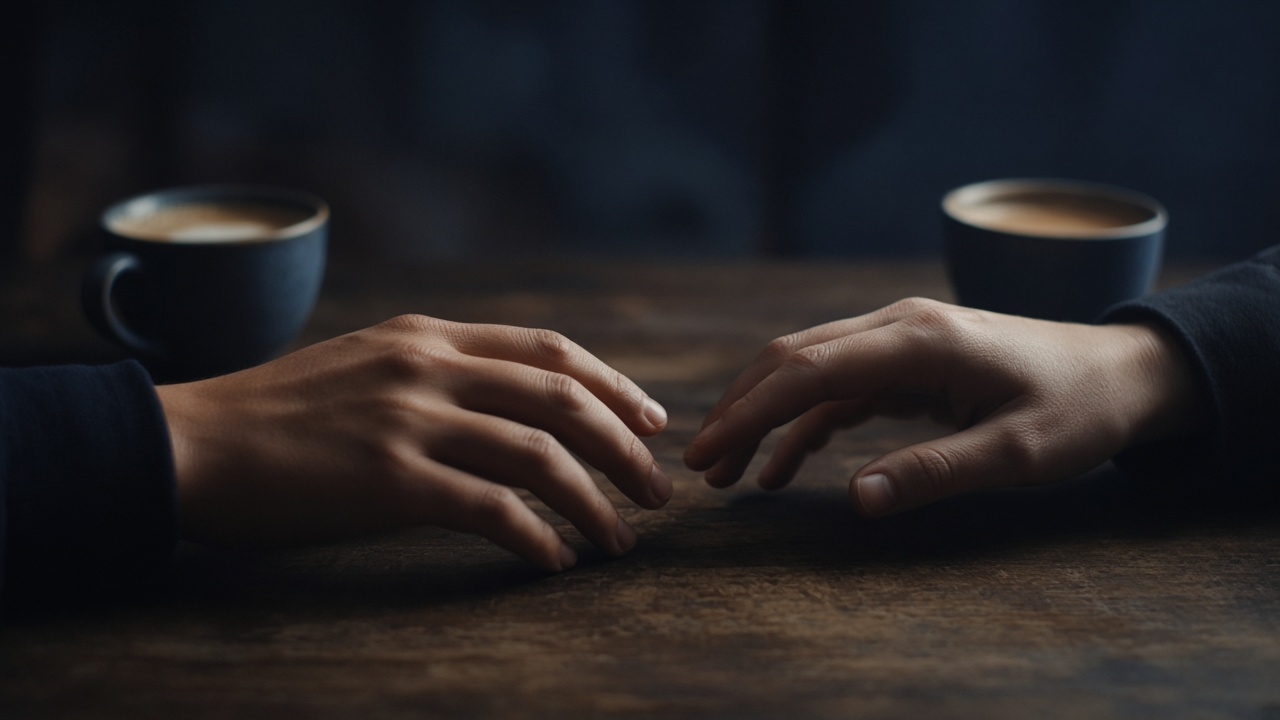
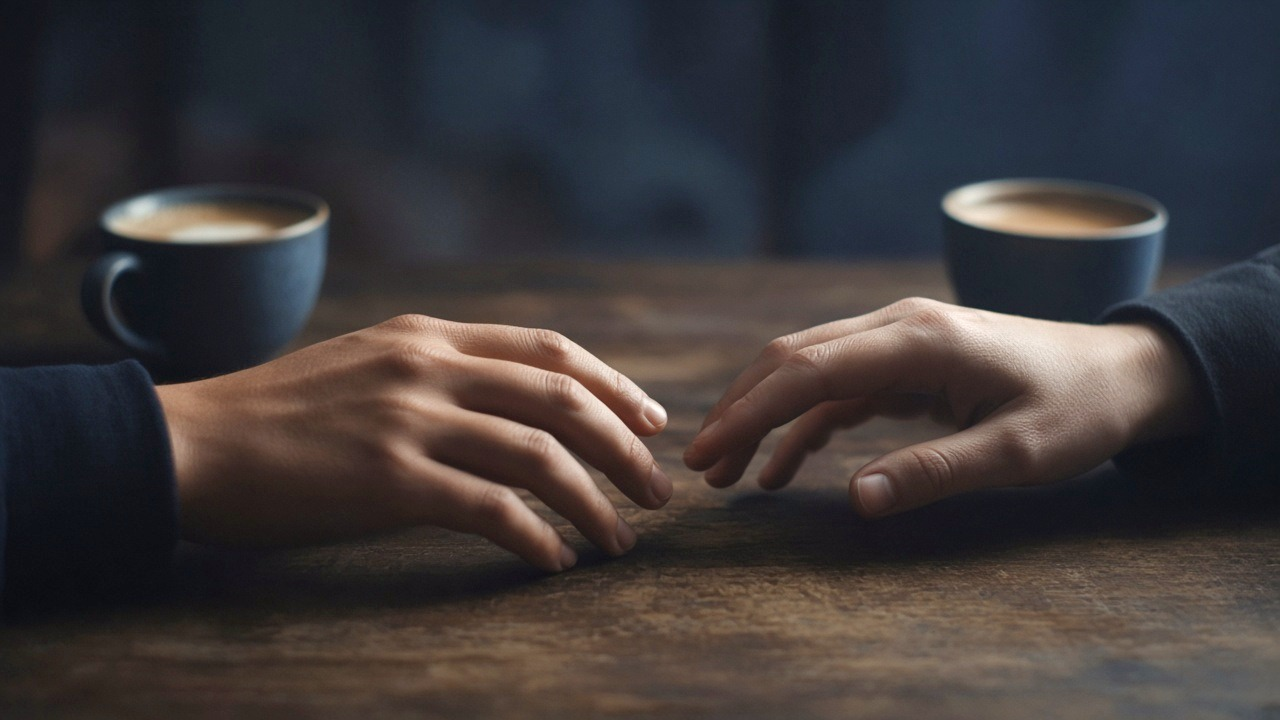
Lift the home-pain photos and brighten the luxury canvas.
The three “what happens at home” stills were crushed to night black. Exposure and a warm wash make the couple, hands, and kitchen readable, and the cards sit on a more luminous cream-gold canvas.

diff --git a/app/globals.css b/app/globals.css
@@ -205,10 +205,20 @@ p, li, .text-body, .text-lead, .faq-a, .faq-q, .quote-card__text,
   inset: 0;
 }
 
+.site-backdrop::after {
+  content: "";
+  position: absolute;
+  inset: 0;
+  pointer-events: none;
+  background:
+    radial-gradient(ellipse 82% 58% at 50% 18%, rgba(255, 248, 230, 0.42), transparent 72%),
+    linear-gradient(180deg, rgba(255, 252, 247, 0.2), rgba(250, 245, 239, 0.08));
+}
+
 .site-ambient__glow {
   position: absolute;
   inset: -12%;
-  background: radial-gradient(circle at 50% 30%, rgba(197, 160, 89, 0.2), transparent 70%);
+  background: radial-gradient(circle at 50% 30%, rgba(197, 160, 89, 0.32), transparent 70%);
   will-change: opacity, transform;
   transform-origin: 50% 30%;
 }
@@ -891,16 +901,35 @@ a.clinic-address {
   box-shadow: 0 20px 25px -5px rgba(130, 21, 43, 0.1);
 }
 
+.pain-card__media {
+  position: relative;
+  overflow: hidden;
+}
+
+.pain-card__media::after {
+  content: "";
+  position: absolute;
+  inset: 0;
+  pointer-events: none;
+  background: linear-gradient(
+    165deg,
+    rgba(255, 244, 220, 0.2) 0%,
+    transparent 46%,
+    rgba(197, 160, 89, 0.1) 100%
+  );
+}
+
 .pain-card__media img {
   display: block;
   width: 100%;
   height: 250px;
   object-fit: cover;
+  filter: brightness(1.1) contrast(1.04) saturate(1.06);
 }
 
 .pain-card__copy {
   padding: 18px 20px 22px;
-  border-top: 4px solid #82152B;
+  border-top: 1px solid rgba(197, 160, 89, 0.28);
 }
 
 .pain-card__copy h3 {
@@ -1708,6 +1737,13 @@ a.clinic-address {
 
 .media-zoom img {
   transition: transform 1.4s var(--ease-out);
+}
+
+.clinic-card img,
+.quote-card img,
+.about-portrait__frame img,
+.path-card__media img {
+  filter: brightness(1.08) contrast(1.03) saturate(1.04);
 }
 
 .media-zoom:hover img {
@@ -4693,18 +4729,19 @@ footer {
 .faq-item--neo,
 .treat-pin__head,
 .treat-pin__copy,
-.content-shield {
+.content-shield,
+.pain-card {
   position: relative;
   isolation: isolate;
-  background: rgba(255, 255, 255, 0.95) !important;
+  background: rgba(255, 255, 255, 0.97) !important;
   backdrop-filter: blur(12px);
   -webkit-backdrop-filter: blur(12px);
   border-top: 4px solid #c5a059 !important;
   border-bottom: 1px solid rgba(110, 88, 70, 0.16) !important;
   border-radius: 1rem;
   box-shadow:
-    0 25px 50px -12px rgba(110, 88, 70, 0.14),
-    0 0 0 1px rgba(197, 160, 89, 0.1) !important;
+    0 25px 50px -12px rgba(197, 160, 89, 0.18),
+    0 0 0 1px rgba(197, 160, 89, 0.14) !important;
 }
 
 .content-shield::before,
@@ -4718,7 +4755,7 @@ footer {
   height: 7rem;
   z-index: -1;
   pointer-events: none;
-  background: radial-gradient(circle at 50% 30%, rgba(197, 160, 89, 0.2), transparent 70%);
+  background: radial-gradient(circle at 50% 30%, rgba(197, 160, 89, 0.3), transparent 70%);
   filter: blur(24px);
   animation: pulse-slow 8s ease-in-out infinite;
   will-change: opacity, transform;

diff --git a/app/layout.tsx b/app/layout.tsx
@@ -48,7 +48,7 @@ export default function RootLayout({
       lang="he"
       dir="rtl"
       data-scene="hero"
-      data-rev="phone-canvas"
+      data-rev="lit-luxury"
       className={`${heebo.variable} ${assistant.variable} ${heebo.className}`}
       style={{
         ["--artwork-mobile" as string]: `url("${asset("/bg-mobile.jpg")}")`,
